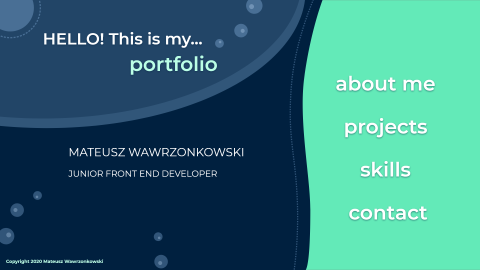
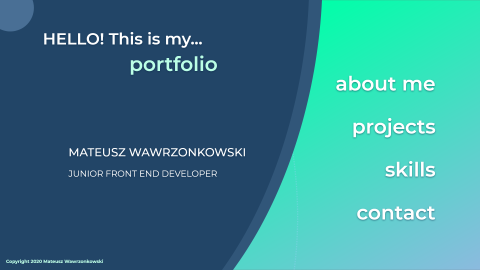
Add content, fixes

diff --git a/src/pages/Projects/Projects.js b/src/pages/Projects/Projects.js
@@ -3,6 +3,7 @@ import styles from 'pages/Projects/Projects.module.scss'
 import Menu from 'components/Menu/Menu';
 import Project from 'components/Project/Project';
 import portfolio from 'assets/Projects/portfolio.png';
+import activebox from 'assets/Projects/ActiveBox.png';
 
 const navLinks = [
     { name: "home", to: "/" },
@@ -14,17 +15,23 @@ const navLinks = [
 const projectsItems = [
     {
         index: 1,
-        name: "portfolio",
-        description: "My portfolio, work in progress",
+        name: "Portfolio",
+        description: "My portfolio and first experience with React Router, and React Hooks. Hope you like it.",
         img: portfolio,
-        technologies: ["Html", "Css", "Javascript", "React", "Css Modules", "Eslint", "AdobeXD"]
+        link: "https://github.com/mateuszwawrzonkowski/Portfolio",
+        technologies: ["Html", "Css", "Javascript", "React", "Css Modules", "Eslint", "AdobeXD"],
+        githubLink: "https://github.com/mateuszwawrzonkowski/Portfolio",
+        pageLink: "https://mateuszwawrzonkowski.github.io/Portfolio/#/"
     },
     {
         index: 2,
-        name: "jakis projekt",
-        description: "My portfolio, work in progress",
-        img: portfolio,
-        technologies: ["Html", "Css", "Javascript", "React", "Css Modules", "Eslint", "AdobeXD"]
+        name: "Active Box",
+        description: "Created on the basis of Kamal Chaneman design. Programmed 100% by me. Created for learning purpose.",
+        img: activebox,
+        link: "https://github.com/mateuszwawrzonkowski/Portfolio",
+        technologies: ["Html", "Css", "Javascript", "jQuery"],
+        githubLink: "https://github.com/mateuszwawrzonkowski/Portfolio",
+        pageLink: "https://mateuszwawrzonkowski.github.io/Portfolio/#/"
     },
 ]
 
@@ -37,6 +44,8 @@ const Projects = () => {
             description={item.description}
             img={item.img}
             technologies={item.technologies}
+            githubLink={item.githubLink}
+            pageLink={item.pageLink}
         />
     ))
 

diff --git a/src/components/Project/Project.module.scss b/src/components/Project/Project.module.scss
@@ -3,39 +3,51 @@
 .project {
     max-width: 480px;
     width: 80%;
+    margin-bottom: 50px;
+
+    @include mq(smartphone-large) {
+        margin-bottom: 0;
+    }
 
     figure {
         margin: 10px;
+
 
         .projectImg {
             position: relative;
             overflow: hidden;
 
 
+            .buttons {
+                position: absolute;
+                display: flex;
+                justify-content: space-evenly;
+                align-items: center;
+                height: 50%;
+                width: 100%;
+                top: -50%;
+                background-color: rgba($color: $kashmirblue-color, $alpha: 0.6);
+                border-radius: 10px 10px 50% 50%;
+                transition: 0.3s;
+
+                @media (pointer: coarse) {
+                    top: 0%;
+                }
+
+                a {
+                    font-size: 5rem;
+                    color: $aeroblue-color;
+                }
+            }
+
             img {
                 width: 100%;
                 border-radius: 10px;
             }
 
-            &::before {
-                content: "";
-                position: absolute;
-                background-color: rgba(0, 0, 0, 0.6);
-                border-radius: 10px 10px 50% 50%;
-                height: 50%;
-                width: 100%;
-                top: 50%;
-                left: 50%;
-                transform: translate(-50%, -180%);
-                transition: 0.3s;
-                opacity: 0;
-            }
-
-            &:hover::before {
-                transform: translate(-50%, -100%);
-                opacity: 1;
-            }
         }
+
+
 
         .figcaption {
             background-color: $midnight-color;
@@ -76,4 +88,9 @@
         }
     }
 
+    figure:hover {
+        .buttons {
+            top: 0;
+        }
+    }
 }

diff --git a/src/components/Project/Project.js b/src/components/Project/Project.js
@@ -1,6 +1,9 @@
 import React from 'react';
 import styles from 'components/Project/Project.module.scss';
-const Project = ({ name, img, description, technologies }) => {
+import { FontAwesomeIcon } from '@fortawesome/react-fontawesome';
+import { faGithubSquare } from '@fortawesome/free-brands-svg-icons';
+import { faPlayCircle } from '@fortawesome/free-solid-svg-icons';
+const Project = ({ name, img, description, technologies, githubLink, pageLink }) => {
 
     const technologyItems = technologies.map(technology =>
         <li key={technology + name}>{technology}</li>);
@@ -10,6 +13,10 @@ const Project = ({ name, img, description, technologies }) => {
             <div className={styles.project}>
                 <figure>
                     <div className={styles.projectImg}>
+                        <div className={styles.buttons}>
+                            <a href={githubLink}><FontAwesomeIcon icon={faGithubSquare} /></a>
+                            <a href={pageLink}><FontAwesomeIcon icon={faPlayCircle} /></a>
+                        </div>
                         <img src={img} alt={name} />
                     </div>
                     <figcaption>

diff --git a/src/pages/Home/Home.module.scss b/src/pages/Home/Home.module.scss
@@ -8,23 +8,22 @@
     .header {
         &__hi {
             position: absolute;
-            top: 15%;
-            left: 30%;
+            top: 10%;
+            left: 25%;
             transform: translate(0, -50%);
-            font-size: 2.3rem;
+            font-size: 2.6rem;
             font-weight: 600;
             color: white;
             text-shadow: 0px 3px 6px #00203F;
             z-index: 10;
 
             @include mq(smartphone) {
-                font-size: 2.6rem;
+                font-size: 3rem;
             }
 
             @include mq(smartphone-medium) {
                 top: 10%;
                 left: 25%;
-                font-size: 3rem;
             }
 
             @include mq(smartphone-large) {
@@ -55,7 +54,7 @@
 
         &__page {
             position: absolute;
-            top: 20vh;
+            top: 15vh;
             left: 50vw;
             transform: translate(0, -50%);
             font-size: 3.6rem;
@@ -199,6 +198,7 @@
             font-weight: 600;
             margin: 0;
             color: $aeroblue-color;
+            z-index: 1;
 
             @include mq(smartphone) {
                 font-size: 0.8rem;

diff --git a/src/components/Menu/Menu.module.scss b/src/components/Menu/Menu.module.scss
@@ -11,6 +11,7 @@
     box-shadow: 0px 0px 15px 1px rgba(99, 234, 184, 1);
     z-index: 100;
     transition: 0.3s;
+    // margin: 0;
 
     @include mq(smartphone) {
         height: 100px;
@@ -45,6 +46,8 @@
 
     .navigation {
         display: none;
+        margin: 0;
+        padding: 0;
     }
 
     .menuButton {
@@ -121,11 +124,6 @@
     border-radius: 0 0 120vw;
     z-index: 998;
 
-    @include mq(smartphone) {
-        height: 70vh;
-        width: 100vw;
-    }
-
     @include mq(smartphone-large) {
         height: 80vh;
         width: 45vw;
@@ -198,7 +196,12 @@
                 transition: .4s;
 
                 @include mq(smartphone) {
+                    font-size: 3.6rem;
+                }
+
+                @include mq(smartphone-medium) {
                     font-size: 4.4rem;
+                    padding: 5px;
                 }
 
                 @include mq(smartphone-large) {
@@ -206,7 +209,6 @@
                 }
 
                 @include mq(tablet-large) {
-                    padding: 5px;
                     font-size: 4.6rem;
                 }
 

diff --git a/src/pages/Contact/Contact.module.scss b/src/pages/Contact/Contact.module.scss
@@ -52,7 +52,9 @@
                     text-decoration: none;
                     text-transform: uppercase;
                     color: white;
-                    text-shadow: 0px 3px 3px #00203F;
+                    text-shadow: 0px 3px 3px $midnight-color;
+                    background-color: rgba($color: $midnight-color, $alpha: 0.2);
+                    border-radius: 10px;
 
                     @include mq(smartphone-medium) {
                         font-size: 1.2rem;

diff --git a/src/components/Header/Header.js b/src/components/Header/Header.js
@@ -20,9 +20,7 @@ const Header = ({ page, noBg }) => {
     return (
         <>
             <header className={styles.header}>
-                {noBg ? null : <div className={styles.header__background}>
-
-                </div>}
+                {noBg ? null : <div className={styles.header__background} />}
                 {page !== 'homepage' && <p className={styles.header__pageTitle} >{sectionTitle}</p>}
 
             </header>

diff --git a/src/components/Header/Header.module.scss b/src/components/Header/Header.module.scss
@@ -19,6 +19,7 @@
         border-radius: 0 50% 50% 50%;
         z-index: 0;
         transition: 0.3s;
+        overflow: hidden;
 
         @include mq(smartphone-large) {
             top: 0;
@@ -31,7 +32,6 @@
         @include mq(desktop-small) {
             border: 30px solid $sanjuan-color;
         }
-
     }
 
     &__pageTitle {

diff --git a/src/pages/About/About.js b/src/pages/About/About.js
@@ -12,7 +12,6 @@ const navLinks = [
 
 const About = () => (
     <>
-
         <div className={styles.wrapper}>
             <Menu navLinks={navLinks} showMenuButton />
             <div className={styles.about}>

diff --git a/src/constants.scss b/src/constants.scss
@@ -50,7 +50,3 @@ $gradientBackground-color: linear-gradient(135deg, rgba(0, 255, 168, 1) 0%, rgba
         opacity: 1;
     }
 }
-
-/*----------------VARIABLES-----------------*/
-
-$menu-size: 25vw;
